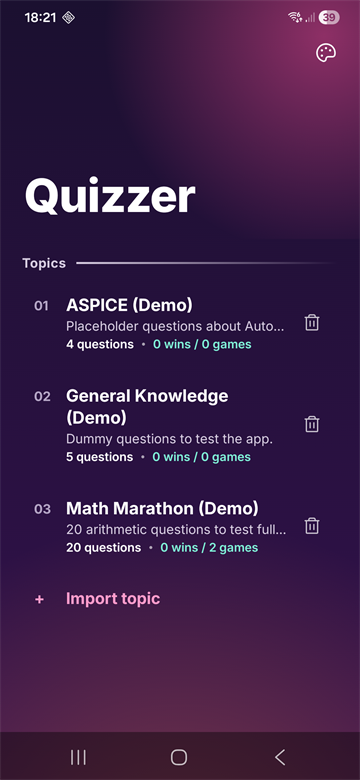
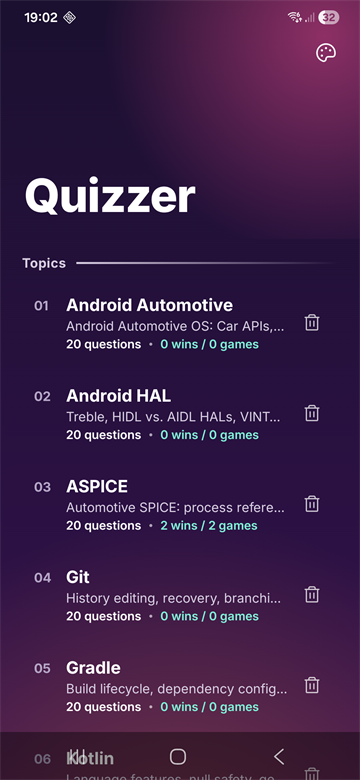
Further readme adaptations.

diff --git a/README.md b/README.md
@@ -9,8 +9,8 @@ four selectable themes.
 <table>
   <tr>
     <td align="center"><img src="docs/images/sunset-coast-topics.png" width="240" alt="Topic list in the Sunset Coast theme"></td>
-    <td align="center"><img src="docs/images/neon-night-quiz.png" width="240" alt="Quiz question in the Neon Night theme, partially correct"></td>
-    <td align="center"><img src="docs/images/neon-night-result.png" width="240" alt="Result screen with pie chart in the Neon Night theme"></td>
+    <td align="center"><img src="docs/images/neon-night-quiz.png" width="240" alt="ASPICE question in the Neon Night theme after checking a wrong answer"></td>
+    <td align="center"><img src="docs/images/neon-night-result.png" width="240" alt="Won game with pie chart in the Neon Night theme"></td>
   </tr>
   <tr>
     <td align="center"><sub>Topics · Sunset Coast</sub></td>
@@ -18,20 +18,63 @@ four selectable themes.
     <td align="center"><sub>Result · Neon Night</sub></td>
   </tr>
   <tr>
-    <td align="center"><img src="docs/images/postcard-quiz.png" width="240" alt="Quiz question in the Postcard theme, wrong answer"></td>
+    <td align="center"><img src="docs/images/postcard-quiz.png" width="240" alt="Android HAL question in the Postcard theme"></td>
     <td align="center"><img src="docs/images/pocket-phone-topics.png" width="240" alt="Topic list in the Pocket Phone theme"></td>
-    <td align="center"><img src="docs/images/theme-picker.png" width="240" alt="Theme picker with previews of all four themes"></td>
+    <td align="center"><img src="docs/images/theme-picker.png" width="240" alt="Theme picker with theme previews and app icon selection"></td>
   </tr>
   <tr>
     <td align="center"><sub>Quiz · Postcard</sub></td>
     <td align="center"><sub>Topics · Pocket Phone</sub></td>
-    <td align="center"><sub>Theme picker</sub></td>
+    <td align="center"><sub>Themes & app icon</sub></td>
   </tr>
 </table>
 
-## Topic file format
+## Topics
 
-One file per topic. Each question has 2–4 answers; one, several, or all of them can be correct.
+Nine topics with 20 questions each are built in, aimed at Android Automotive HMI developers:
+
+| Topic | Covers |
+|---|---|
+| ASPICE | Capability levels, ratings, VDA scope, SWE/SUP processes, changes in 4.0 |
+| SAFe | ARTs, PI Planning, WSJF, roles, events, enablers (SAFe 6.0) |
+| Android Automotive | Car APIs, CarService, UX restrictions, users, audio, power, system UI |
+| Soong Build System | Android.bp, module types, lunch/m, Kati and Ninja |
+| Gradle | Build phases, configurations, caching, version catalogs, Android variants |
+| Git | History editing, recovery, internals, repo/Gerrit workflow |
+| Kotlin | Language features, generics, coroutines and Flow |
+| VHAL | Property IDs, change modes, areas, AIDL interface, debugging |
+| Android HAL | Treble, HIDL vs. AIDL, VINTF, versioning, Binder |
+
+- **Import topic** (end of the topic list) adds your own topic files, see [Writing topics](#writing-topics).
+- Topics can be deleted; this also deletes their statistics. Built-in topics you delete don't come back,
+  but new built-in topics from app updates appear automatically.
+- The topic list shows wins / games per topic.
+
+## Game rules
+
+- A game has 16 questions, picked at random; questions answered wrong before come up more often.
+  Topics with fewer questions give a short game with all of them.
+- **Correct:** exactly the correct answers selected. **Partially correct:** at least one correct
+  answer selected, but not exactly the right set. **Wrong:** no correct answer selected.
+- You win with at least 75 % correct (rounded up: 12 of 16). Partially correct doesn't count.
+- Answers are shuffled for every question, and the buttons show random labels in many languages
+  ("Fire!", "¡Vamos!", "行くぞ!", …).
+
+## Themes and app icon
+
+Tap the palette icon on the topic list:
+
+- **Themes:** Sunset Coast (default), Neon Night, Postcard and Pocket Phone are built in. A theme
+  changes colors, fonts, shapes and backgrounds; the layout stays the same. More themes can be
+  imported as theme JSON files (schema v1, documented in
+  [`docs/design/themes/sunset-coast/handoff.md`](docs/design/themes/sunset-coast/handoff.md)).
+- **App icon:** Sunset Q (default), Answers, Neon Q or Badge. The new icon appears after you leave
+  the app; on some launchers, home screen shortcuts need to be re-added.
+- **Licenses:** the licenses of Quizzer and the components it uses.
+
+## Writing topics
+
+One JSON file per topic. Each question has 2–4 answers; one, several, or all of them can be correct.
 
 ```json
 {
@@ -60,59 +103,44 @@ One file per topic. Each question has 2–4 answers; one, several, or all of the
 | `answers[].correct` | no | Defaults to `false`. |
 | `questions[].explanation` | no | |
 
-### IDs
+Give a topic at least 16 questions for full games. The app validates files on import and names
+the problem if one is invalid.
 
-Files contain no IDs. The app generates a **topic ID** from the title's initials
-(`"Android Automotive Knowledge"` → `aak`; one-word titles use the word, e.g. `aspice`) and
-**question IDs** from the position in the file (`aak-0`, `aak-1`, …). The learning history is
-stored per question ID, so **only append new questions at the end** of a file – inserting,
-deleting or reordering shifts the IDs. Fixing the wording of a question is fine.
+**Only add new questions at the end of a file.** The learning history is stored per question
+position (question IDs like `aak-0`, `aak-1`, generated from the title's initials, e.g.
+"Android Automotive Knowledge" → `aak`), so inserting, deleting or reordering questions mixes up
+the history. Fixing a question's wording is fine.
 
-## Game rules
+## Build and run
 
-- A game has 16 questions, picked at random; questions answered wrong before come up more often.
-  Topics with fewer questions give a short game with all of them.
-- **Correct:** exactly the correct answers selected. **Partially correct:** at least one correct
-  answer selected, but not exactly the right set. **Wrong:** no correct answer selected.
-- You win with at least 75 % correct (rounded up: 12 of 16). Partially correct doesn't count.
-- Answers are shuffled for every question. The buttons show random labels ("Fire!", "¡Vamos!", …),
-  defined in `app/src/main/res/values/labels.xml`.
+Requirements:
 
-See `docs/PLAN.md` for the plan and what's still open.
+- Android 8.0 (API 26) or newer on the device; built for Android 16 (API 36).
+- JDK 17 or newer to start Gradle. The build itself runs on JDK 21, which Gradle finds or downloads
+  automatically.
+- Android SDK with platform 36, e.g. via Android Studio.
 
-## Topics in the app
+**Android Studio:** open the project folder, wait for the Gradle sync, select your device and click
+**Run**.
 
-Nine topics with 20 questions each are built in (`app/src/main/assets/topics/`), aimed at
-Android Automotive HMI developers:
+**Command line:**
 
-| Topic | Covers |
+```
+.\gradlew installDebug        # build and install on the connected device
+.\gradlew testDebugUnitTest   # run unit tests
+```
+
+## Project structure
+
+| Path | Content |
 |---|---|
-| ASPICE | Capability levels, ratings, VDA scope, SWE/SUP processes, changes in 4.0 |
-| SAFe | ARTs, PI Planning, WSJF, roles, events, enablers (SAFe 6.0) |
-| Android Automotive | Car APIs, CarService, UX restrictions, users, audio, power, system UI |
-| Soong Build System | Android.bp, module types, lunch/m, Kati and Ninja |
-| Gradle | Build phases, configurations, caching, version catalogs, Android variants |
-| Git | History editing, recovery, internals, repo/Gerrit workflow |
-| Kotlin | Language features, generics, coroutines and Flow |
-| VHAL | Property IDs, change modes, areas, AIDL interface, debugging |
-| Android HAL | Treble, HIDL vs. AIDL, VINTF, versioning, Binder |
-
-- Bundled topics are imported once; new ones added in later app versions appear automatically,
-  deleted ones don't come back.
-- **Import topic** opens the system file picker; the file is validated and copied into the app.
-- Topics can be deleted from the topic list; this also deletes their statistics.
-- Wins / games per topic are shown in the topic list.
-
-## Themes
-
-Tap the palette icon on the topic list to pick a theme. Four themes are built in
-(`app/src/main/assets/themes/`); more can be imported as theme JSON files (schema v1, documented in
-`docs/design/themes/sunset-coast/handoff.md`). A theme changes colors, fonts, shapes and backgrounds;
-the layout stays the same.
-
-The **app icon** can be changed in the same screen: "Sunset Q" (default), "Answers", "Neon Q" and
-"Badge" (designs in `docs/design/icons/`). The new icon is applied when you leave the app, because
-Android closes an app whose launcher entry is switched while it's open.
+| `app/src/main/assets/topics/` | Built-in topics |
+| `app/src/main/assets/themes/` | Built-in themes |
+| `app/src/main/assets/licenses/` | License texts shown in the app |
+| `app/src/main/res/values/labels.xml` | Random button labels |
+| `app/src/main/java/com/quizzer/app/` | `data/` topics and statistics, `quiz/` game logic, `theme/` theme engine, `ui/` screens, `appicon/` icon switching |
+| `docs/PLAN.md` | Plan, decisions and open items |
+| `docs/design/` | Design handoffs for themes and app icons |
 
 ## License
 
@@ -122,7 +150,7 @@ Quizzer is licensed under the [GNU General Public License v3.0](LICENSE).
 
 The following files are **not** covered by the GPL; they keep their own licenses. The full texts
 are in [`app/src/main/assets/licenses/`](app/src/main/assets/licenses/) and are shown in the app
-(theme picker → Licenses).
+(palette icon → Licenses).
 
 | Component | Files | License |
 |---|---|---|
@@ -132,10 +160,3 @@ are in [`app/src/main/assets/licenses/`](app/src/main/assets/licenses/) and are 
 | Shrikhand (Jonny Pinhorn) | `app/src/main/res/font/shrikhand_regular.ttf` | SIL Open Font License 1.1 |
 | Phosphor Icons | `app/src/main/res/drawable/ic_{palette,trash,x,arrow_left,check}.xml` | MIT |
 | AndroidX, Jetpack Compose, Kotlin, kotlinx.coroutines | Gradle dependencies | Apache License 2.0 |
-
-## Build & run
-
-```
-.\gradlew installDebug     # build and install on the connected device
-.\gradlew testDebugUnitTest  # run unit tests
-```
